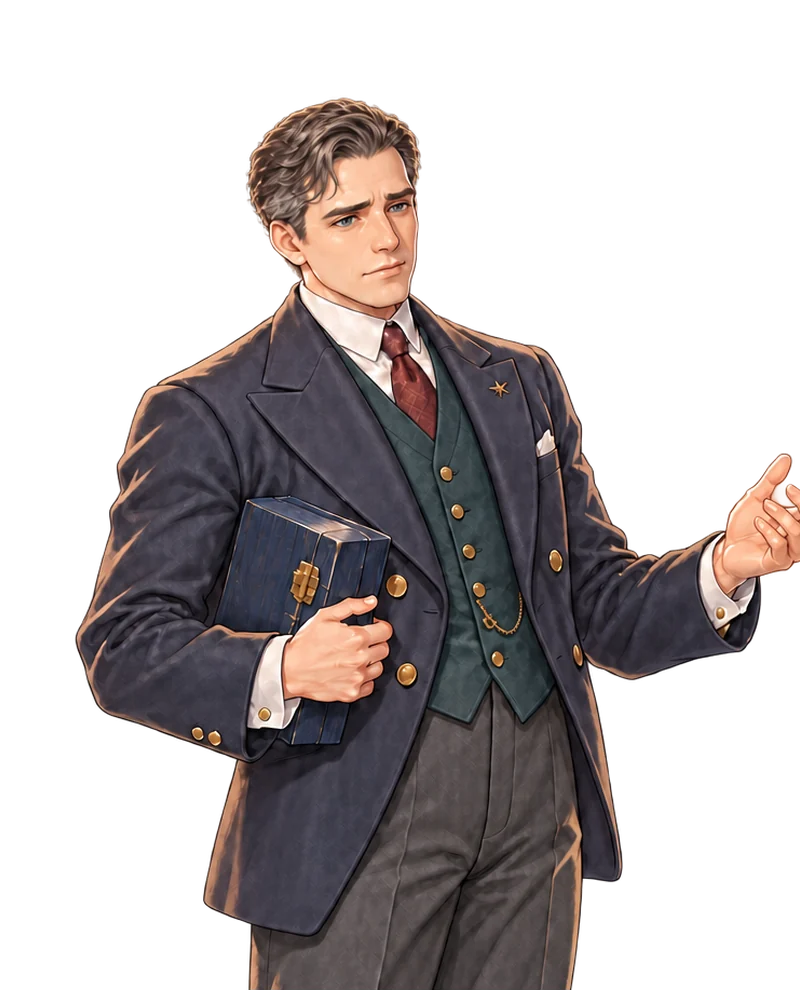
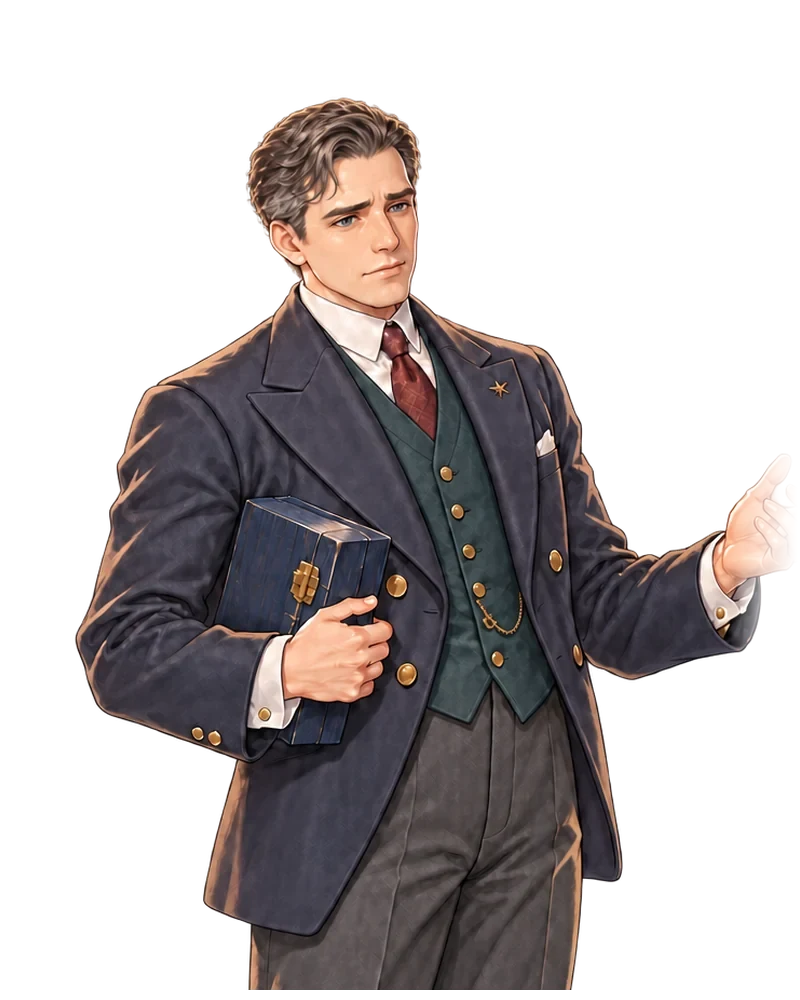
보어: 잘린 손끝을 부드럽게 흐리고, 계단 불빛 작업대에 에너지 계단 그림 추가
Claude-Session: https://claude.ai/code/session_01PHaqw3vR3xwnkj3Zi9aRU5

Changed region(s): [[0.9062, 0.434, 1.0, 0.651]]

diff --git a/index.html b/index.html
@@ -4,7 +4,7 @@
 <meta name="viewport" content="width=device-width, initial-scale=1, viewport-fit=cover">
 <meta name="color-scheme" content="light only">
 <meta name="theme-color" content="#1E3050">
-<meta name="merope-ver" content="20261109230334">
+<meta name="merope-ver" content="20261109233430">
 <link rel="icon" href="favicon.ico" sizes="any">
 <link rel="icon" type="image/png" sizes="192x192" href="a/icon/icon-192.png">
 <link rel="apple-touch-icon" href="a/icon/icon-180.png">
@@ -905,6 +905,10 @@ input[type=range]:active::-webkit-slider-thumb{transform:scale(1.3)}
 .htok.st{transform:none;aspect-ratio:auto;animation:none}.htok.st::after{display:none}.htok.st .hn{top:auto;bottom:100%;margin:0 0 2px}
 .sdark{position:fixed;left:50%;bottom:calc(14px + env(safe-area-inset-bottom,0px));transform:translateX(-50%);z-index:90;width:min(92vw,380px);display:flex;gap:10px;align-items:center;padding:10px 12px;background:#FFFDF8;color:#1F2F4A;border:1.5px solid #C9A365;border-radius:14px;box-shadow:0 6px 18px rgba(20,30,50,.3);font:500 13.5px/1.45 var(--body)}
 .sdark p{margin:0;flex:1}.sdark b{font-weight:700}.sdark button{flex:none;border:0;background:#233D62;color:#FFFDF8;border-radius:999px;padding:6px 12px;font:700 13px var(--body);cursor:pointer}
+.lviz{margin:4px 0 10px}.lviz svg{width:100%;height:auto;display:block;background:#1E2B48;border-radius:12px}
+.ladder .lv{stroke:#d9b46a;stroke-width:3}.ladder .lv.g{stroke:#8a7a5a}.ladder .lt{fill:#e9dcc0;font:600 11px var(--body);text-anchor:end}
+.ladder .up{stroke:#9aa3b5;stroke-width:4;stroke-dasharray:5 4}.ladder .up.on{stroke:#f1d9a0;stroke-dasharray:none}.ladder .down{stroke:#f1d9a0;stroke-width:2;stroke-dasharray:3 3}
+.ladder .el{fill:#fff3cf;stroke:#d9b46a;stroke-width:2}.ladder .lm{fill:#e9dcc0;font:500 12px var(--body)}
 .htok:hover .hn,.htok:focus-visible .hn,.htok.say .hn{display:block}
 @keyframes tokin{from{opacity:0;translate:0 6px}to{opacity:1;translate:0 0}}
 .hsay{position:absolute;z-index:3;transform:translate(-50%,calc(-100% - 8px));width:max-content;max-width:min(260px,70vw);background:#FFFCF4;color:#1B3253;font-size:12.5px;line-height:1.45;padding:7px 11px;border-radius:12px;box-shadow:0 0 0 1.5px #C9A365,0 6px 16px rgba(10,20,40,.3);pointer-events:none;animation:tokin .25s ease both}
@@ -1247,9 +1251,9 @@ input[type=range]::-webkit-slider-runnable-track{background:linear-gradient(90de
   </section>
 </main>
 
-<script src="data.js?v=20261109230334"></script>
-<script src="quiz.js?v=20261109230334"></script>
-<script src="recipes.js?v=20261109230334"></script>
+<script src="data.js?v=20261109233430"></script>
+<script src="quiz.js?v=20261109233430"></script>
+<script src="recipes.js?v=20261109233430"></script>
 <script>
 (()=>{
 const fitVH=()=>{if(!(window.CSS&&CSS.supports('height','100dvh'))){document.documentElement.style.height=innerHeight+'px';document.body.style.height=innerHeight+'px'}};fitVH();addEventListener('resize',fitVH);
@@ -1428,12 +1432,19 @@ Object.assign(LABK,{
   T:{t1:['두 맛이 다 나게, 따뜻하게',[85,100],[60,72]],t2:['어머니가 데워 주시던 것처럼',[80,100],[66,78]]},
   tip:{xlo:d=>'한쪽 맛만 나요. 두 재료를 비슷하게 섞어 보세요.',ylo:d=>'미지근해요. 조금 더 데워 보세요.',yhi:d=>'너무 뜨거워요. 조금 식혀 보세요.'},
   sci:'서로 다른 두 종을 교배하면 어느 쪽과도 다른 새 종이 생길 수 있어요. 우장춘은 배추 무리와 양배추 무리가 만나 유채가 생긴다는 걸 밝혀 "종의 합성"을 보여 줬어요.'},
- sp09:{st:'색·빛 · 계단 불빛',sl:d=>[['E','조명 에너지 다이얼',1,10,0.5,5.5,'',['낮게','높게']],['t','비추는 시간',1,6,0.5,3,'초',['짧게','길게']]],
+ sp09:{st:'색·빛 · 계단 불빛',sl:d=>[['E','비추는 빛의 에너지',1,10,0.5,5.5,'',['약한 빛','센 빛']],['t','비추는 시간',1,6,0.5,3,'초',['짧게','길게']]],
+  viz:p=>{const n=[3,6,9].find(v=>Math.abs(p.E-v)<.26),H=150,y=e=>H-14-e*12.4,on=!!n;
+    const rungs=[0,3,6,9].map(e=>`<line x1="60" x2="200" y1="${y(e)}" y2="${y(e)}" class="lv${e?'':' g'}"/><text x="54" y="${y(e)+4}" class="lt">${e?e+'칸':'바닥'}</text>`).join('');
+    const top=y(p.E),col=on?['','#5aa9ff','#7fd1ff','#c7a6ff'][n/3]:'#9aa3b5';
+    return `<svg viewBox="0 0 340 ${H}" class="ladder" role="img" aria-label="에너지 계단 그림">${rungs}
+      <line x1="110" x2="110" y1="${y(0)}" y2="${top}" class="up${on?' on':''}"/><circle cx="${on?150:110}" cy="${on?y(n):y(0)}" r="7" class="el"/>
+      ${on?`<line x1="150" x2="150" y1="${y(n)+8}" y2="${y(0)-6}" class="down"/><circle cx="290" cy="38" r="${8+p.t*3.4}" fill="${col}" opacity=".45"/><circle cx="290" cy="38" r="8" fill="${col}"/><text x="290" y="${38+12+p.t*3.4+4}" class="lm" text-anchor="middle">빛</text>`:''}
+      <text x="212" y="${H-48}" class="lm">${on?`전자가 ${n}칸 계단에`:'이 에너지로는'}</text><text x="212" y="${H-30}" class="lm">${on?'올라갔다 내려오며':'닿는 계단이 없어요'}</text><text x="212" y="${H-12}" class="lm">${on?'빛을 내요':'(빛이 안 나요)'}</text></svg>`},
   model:p=>{const n=Math.round(p.E/3)*3||3,x=100*Math.exp(-Math.pow(p.E-n,2)/0.08);return {x,y:x*p.t/10}},
   X:['빛나는 정도','%',0,100,20],Y:['빛 세기','',0,60,10],
   T:{t1:['푸르게 또렷이',[90,100],[28,46]],t2:['은은하게',[90,100],[9,25]]},
-  tip:{xlo:d=>'이 칸에서는 빛나지 않아요. 다이얼은 정해진 계단에서만 반응해요. 칸을 바꿔 가며 찾아보세요.',ylo:d=>'빛이 약해요. 조금 더 오래 비춰 보세요.',yhi:d=>'빛이 너무 세요. 비추는 시간을 줄여 보세요.'},
-  sci:'원자 속 전자는 정해진 에너지 계단에만 머물 수 있어요. 그래서 정해진 에너지에만 반응하고, 정해진 색의 빛만 내요(보어의 원자 모형).'},
+  tip:{xlo:d=>'계단 높이와 딱 맞는 에너지일 때만 빛나요. 위 그림에서 화살표가 계단에 닿는 값을 찾아보세요(3, 6, 9).',ylo:d=>'빛이 약해요. 조금 더 오래 비춰 보세요.',yhi:d=>'빛이 너무 세요. 비추는 시간을 줄여 보세요.'},
+  sci:'원자 속 전자는 사다리의 칸처럼 정해진 에너지 계단에만 설 수 있어요. 비춘 빛의 에너지가 계단 높이와 딱 맞아야 전자가 올라가고, 다시 내려올 때 그 높이만큼의 색으로 빛나요(보어의 원자 모형). 토닉워터는 실제로 자외선을 받으면 파랗게 빛나요. 빛나는 정도는 에너지가 계단에 맞았는지, 빛 세기는 얼마나 오래 비췄는지예요.'},
  sp10:{st:'탄산 · 기체 무게',sl:d=>[['T','탄산수 온도',2,25,1,15,'°C',['아주 차갑게','미지근하게']],['t','병을 열어 둔 시간',0,20,1,8,'분',['바로','오래']]],
   model:p=>({x:2.2*(1-Math.exp(-p.t/8))*(1+(p.T-2)*0.03),y:100*Math.exp(-p.t/8)*Math.exp(-0.035*(p.T-2))}),
   X:['빠져나간 기체 무게','g',0,4,0.5],Y:['남은 탄산','%',0,100,20],
@@ -1903,7 +1914,7 @@ function e4ui(){const cv=e4cv(),st=cv&&cv._st;if(!st)return;const it=st.items.fi
     st.items.push(o);E4.sel=o.id;e4commit(st,before);e4draw();toast(`${jo(e4name(o.t),'을/를')} 꺼냈어요. 끌어서 자리를 잡아 주세요`)}))}
 function e4enter(){E4.on=true;E4.sel=null;E4.hist=[];E4.fut=[];$('hall').classList.add('edit');$('hEdit').hidden=false;goHall();requestAnimationFrame(()=>{e4draw();e4ui()})}
 function e4exit(){E4.on=false;E4.sel=null;$('hall').classList.remove('edit');$('hEdit').hidden=true;goHall()}
-$('hDeco').addEventListener('click',e4enter);window.__m4={rect4,gnd,ungnd,okFloor,spot4,foot4,blocked4,seatList,HSIT,sceneMode,sitBox,SITIMG,get S(){return S}};$('heDone').addEventListener('click',e4exit);
+$('hDeco').addEventListener('click',e4enter);window.__m4={rect4,gnd,ungnd,okFloor,spot4,foot4,blocked4,seatList,HSIT,sceneMode,sitBox,SITIMG,openLab,sheet,get SPM(){return D.SPM},setCur(c){cur=c},get S(){return S}};$('heDone').addEventListener('click',e4exit);
 $('heFlip').addEventListener('click',()=>{const cv=e4cv(),st=cv._st,it=st.items.find(i=>i.id===E4.sel);if(!it)return;const before=e4snap(st);it.flip=!it.flip;
   if(!it.par&&!it.wall&&!okFloor(st,it)){it.flip=!it.flip;toast('돌리면 다른 가구와 겹쳐요. 조금 옮긴 뒤 다시 해 보세요');return}e4commit(st,before);e4draw()});
 $('heStore').addEventListener('click',()=>{const cv=e4cv(),st=cv._st,it=st.items.find(i=>i.id===E4.sel);if(!it||it.t==='merlin')return;const before=e4snap(st),kids=st.items.filter(i=>i.par===it.id).length;
@@ -2367,6 +2378,7 @@ function openLab(m){const K=LABK[m.kind],sl=K.sl(m);lhist=[];llast=null;
     <div class="panel"><h3>${K.st} 작업대 <small>변인을 하나씩 바꿔 보세요</small></h3>
       ${sl.map(s=>`<div class="ctl"><label for="s-${s[0]}">${s[1]}</label><output id="o-${s[0]}">${lfmt(s)(s[5])}</output>
         <input type="range" id="s-${s[0]}" min="${s[2]}" max="${s[3]}" step="${s[4]}" value="${s[5]}"><div class="ends"><span>${s[7][0]}</span><span>${s[7][1]}</span></div></div>`).join('')}
+      ${K.viz?`<div class="lviz" id="lviz">${K.viz(Object.fromEntries(sl.map(s=>[s[0],s[5]])))}</div>`:''}
       <div class="labsci"><b>과학 노트</b>${K.sci}</div>
     </div>
     <div class="panel"><h3>맛보기 결과 <small id="tries">시음 0회</small></h3>
@@ -2375,7 +2387,7 @@ function openLab(m){const K=LABK[m.kind],sl=K.sl(m);lhist=[];llast=null;
     </div>
   </div>
   <div class="sticky-act"><button class="btn go big" id="brew">만들어서 맛보기</button><button class="btn brass big" id="serveX" disabled>손님께 드리기</button></div>`);
-  sl.forEach(s=>$('s-'+s[0]).addEventListener('input',e=>{$('o-'+s[0]).textContent=lfmt(s)(+e.target.value)}));
+  sl.forEach(s=>$('s-'+s[0]).addEventListener('input',e=>{$('o-'+s[0]).textContent=lfmt(s)(+e.target.value);if(K.viz)$('lviz').innerHTML=K.viz(Object.fromEntries(sl.map(q=>[q[0],+$('s-'+q[0]).value])))}));
   $('brew').addEventListener('click',()=>labBrew(m));$('serveX').addEventListener('click',()=>labServe(m));
   drawLab(m);refreshStock();}
 function labIn(m,r){const [,xr,yr]=labT(m)[cur.target];return {a:r.x>=xr[0]&&r.x<=xr[1],b:r.y>=yr[0]&&r.y<=yr[1],xr,yr}}
